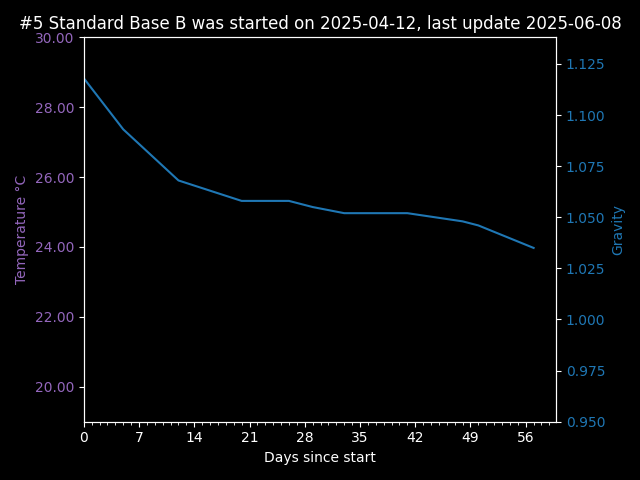
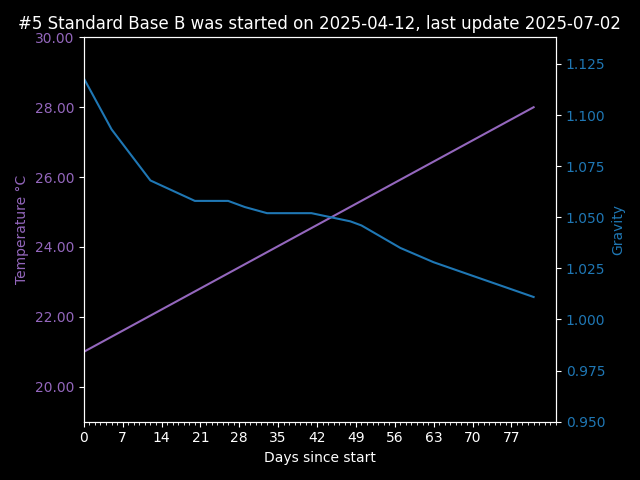
2025-07-05 whole lotta mead making happened

diff --git a/Recipe List/5_Standard_Base_A.md b/Recipe List/5_Standard_Base_A.md
@@ -29,6 +29,7 @@ Required Nitrogen Load: 403.19
 ### Yeast
 
 - [Wyeast: 1056 American Ale](https://wyeastlab.com/product/american-ale/)
+- Restarted with [Lalvin QA23]
 
 Yeast Food
 
@@ -47,33 +48,39 @@ Yeast Food
     - Actual: 1.120
 - Final Gravity
     - Expected: 1.020
-    - Actual:
+    - Actual:1.012
 - ABV
     - Expected: 11.0
 
+## Flavourings Added to separate batches:
+
+- <a href="Recipe%20List/5_1_Standard_Base_With_Raspberry.md"> 5.1 Standard Base With Raspberry</a>
+- <a href="Recipe%20List/5_2_Standard_Base_With_Lemon_Lavendar.md"> 5.2 Standard Base With Lemon Lavendar</a>
+- <a href="Recipe%20List/5_5_Standard_Base_Tails_with_Lemon.md"> 5.5 Standard Base Tails with Lemon</a>
+
 <h2>Fermentation Data</h2>
 
-| Date       | Temperature °C | Gravity | PH | Notes                                                          |
-|------------|----------------|---------|----|----------------------------------------------------------------|
-| 2025-04-12 | 21.0           | 1.120   |    | 09:45 Agitated airation                                        |
-| 2025-04-13 |                |         |    | 10:30 Airation                                                 |
-| 2025-04-13 |                |         |    | 17:30 Airation + Added Fermaid                                 |
-| 2025-04-16 |                | 1.102   |    | 19:50 Airation                                                 |
-| 2025-04-17 |                | 1.096   |    | 18:00  Airation + Added Fermaid                                |
-| 2025-04-24 |                | 1.072   |    |                                                                |
-| 2025-05-02 |                | 1.058   |    |                                                                |
-| 2025-05-08 |                | 1.058   |    |                                                                |
-| 2025-05-11 |                | 1.058   |    | Fermentation possibly stuck, mixed the lees back into the mead |
-| 2025-05-15 |                | 1.055   |    | started?just really slow?                                      |
-| 2025-05-23 |                | 1.053   |    |                                                                |
-| 2025-05-24 |                |         |    | Pretty sure it had stopped, added Lalvin QA23                  |
-| 2025-05-30 |                | 1.050   |    |                                                                |
-| 2025-06-01 |                | 1.048   |    |                                                                |
-| 2025-06-08 |                | 1.037   |    |                                                                |
-|            |                |         |    |                                                                |
-|            |                |         |    |                                                                |
-|            |                |         |    |                                                                |
-|            |                |         |    |                                                                |
+| Date       | Temperature °C | Gravity | PH | Notes                                                                |
+|------------|----------------|---------|----|----------------------------------------------------------------------|
+| 2025-04-12 | 21.0           | 1.120   |    | 09:45 Agitated airation                                              |
+| 2025-04-13 |                |         |    | 10:30 Airation                                                       |
+| 2025-04-13 |                |         |    | 17:30 Airation + Added Fermaid                                       |
+| 2025-04-16 |                | 1.102   |    | 19:50 Airation                                                       |
+| 2025-04-17 |                | 1.096   |    | 18:00  Airation + Added Fermaid                                      |
+| 2025-04-24 |                | 1.072   |    |                                                                      |
+| 2025-05-02 |                | 1.058   |    |                                                                      |
+| 2025-05-08 |                | 1.058   |    |                                                                      |
+| 2025-05-11 |                | 1.058   |    | Fermentation possibly stuck, mixed the lees back into the mead       |
+| 2025-05-15 |                | 1.055   |    | started?just really slow?                                            |
+| 2025-05-23 |                | 1.053   |    |                                                                      |
+| 2025-05-24 |                |         |    | Pretty sure it had stopped, added Lalvin QA23                        |
+| 2025-05-30 |                | 1.050   |    |                                                                      |
+| 2025-06-01 |                | 1.048   |    |                                                                      |
+| 2025-06-08 |                | 1.037   |    |                                                                      |
+| 2025-06-14 |                | 1.027   |    |                                                                      |
+| 2025-07-02 | 28.0           | 1.012   |    | (1.011 grav 22c corrected)  tastes like a classic sweet mead already |
+|            |                |         |    |                                                                      |
+|            |                |         |    |                                                                      |
 
 Notes:
 End of the bucket honey from 2023 at the top so a lot of it was crystalized

diff --git a/Recipe List/5_Standard_Base_B.md b/Recipe List/5_Standard_Base_B.md
@@ -29,6 +29,8 @@ Required Nitrogen Load: 403.19
 ### Yeast
 
 - [Wyeast: 1056 American Ale](https://wyeastlab.com/product/american-ale/)
+-
+    - Restarted with [Lalvin QA23]
 
 Yeast Food
 
@@ -47,33 +49,39 @@ Yeast Food
     - Actual: 1.118
 - Final Gravity
     - Expected: 1.020
-    - Actual:
+    - Actual:1.011
 - ABV
     - Expected: 11.0
 
+## Flavourings Added to separate batches:
+
+- <a href="Recipe%20List/5_3_Standard_Base_Plain.md"> 5.3 Standard Base Plain</a><br>
+- <a href="Recipe%20List/5_4_Standard_Base_With_Cucumber.md"> 5.4 Standard Base With Cucumber</a><br>
+- <a href="Recipe%20List/5_5_Standard_Base_Tails_with_Lemon.md"> 5.5 Standard Base Tails with Lemon</a>
+
 <h2>Fermentation Data</h2>
 
-| Date       | Temperature °C | Gravity | PH | Notes                                                          |
-|------------|----------------|---------|----|----------------------------------------------------------------|
-| 2025-04-12 | 21.0           | 1.118   |    | 9:45am, agitated airation                                      |
-| 2025-04-13 |                |         |    | 10:30 Airation                                                 |
-| 2025-04-13 |                |         |    | 17:30 Airation + Added Fermaid                                 |
-| 2025-04-16 |                | 1.098   |    | 19:50 Airation                                                 |
-| 2025-04-17 |                | 1.093   |    | 18:00 Airation + Added Fermaid                                 |
-| 2025-04-24 |                | 1.068   |    |                                                                |
-| 2025-05-02 |                | 1.058   |    |                                                                |
-| 2025-05-08 |                | 1.058   |    |                                                                |
-| 2025-05-11 |                | 1.055   |    | Fermentation possibly stuck, mixed the lees back into the mead |
-| 2025-05-15 |                | 1.052   |    | started?just really slow?                                      |
-| 2025-05-23 |                | 1.052   |    |                                                                |
-| 2025-05-24 |                |         |    | Pretty sure it had stopped, added Lalvin QA23                  |
-| 2025-05-30 |                | 1.048   |    |                                                                |
-| 2025-06-01 |                | 1.046   |    |                                                                |
-| 2025-06-08 |                | 1.035   |    |                                                                |
-|            |                |         |    |                                                                |
-|            |                |         |    |                                                                |
-|            |                |         |    |                                                                |
-|            |                |         |    |                                                                |
+| Date       | Temperature °C | Gravity | PH | Notes                                                               |
+|------------|----------------|---------|----|---------------------------------------------------------------------|
+| 2025-04-12 | 21.0           | 1.118   |    | 9:45am, agitated airation                                           |
+| 2025-04-13 |                |         |    | 10:30 Airation                                                      |
+| 2025-04-13 |                |         |    | 17:30 Airation + Added Fermaid                                      |
+| 2025-04-16 |                | 1.098   |    | 19:50 Airation                                                      |
+| 2025-04-17 |                | 1.093   |    | 18:00 Airation + Added Fermaid                                      |
+| 2025-04-24 |                | 1.068   |    |                                                                     |
+| 2025-05-02 |                | 1.058   |    |                                                                     |
+| 2025-05-08 |                | 1.058   |    |                                                                     |
+| 2025-05-11 |                | 1.055   |    | Fermentation possibly stuck, mixed the lees back into the mead      |
+| 2025-05-15 |                | 1.052   |    | started?just really slow?                                           |
+| 2025-05-23 |                | 1.052   |    |                                                                     |
+| 2025-05-24 |                |         |    | Pretty sure it had stopped, added Lalvin QA23                       |
+| 2025-05-30 |                | 1.048   |    |                                                                     |
+| 2025-06-01 |                | 1.046   |    |                                                                     |
+| 2025-06-08 |                | 1.035   |    |                                                                     |
+| 2025-06-14 |                | 1.028   |    |                                                                     |
+| 2025-07-02 | 28.0           | 1.011   |    | (1.010 grav 22c corrected) tastes like a classic sweet mead already |
+|            |                |         |    |                                                                     |
+|            |                |         |    |                                                                     |
 
 Notes:
 End of the bucket honey from 2023. 

diff --git a/readme.md b/readme.md
@@ -14,7 +14,7 @@ This is not a guide, no really it's essentially a checklist of stuff we might or
 
 [//]: # (- [4_Orange_and_Chilli.md]&#40;Recipe%20List/4_Orange_and_Chilli.md&#41;)
 
-We've been running two meads at a time, each row is started on the same day; generally they use a similar amount of
+We've been running multiple meads at a time, each row is started on the same day; generally they use a similar amount of
 honey and the same yeast, with the differing factor being the taste additions
 
 
@@ -43,17 +43,24 @@ honey and the same yeast, with the differing factor being the taste additions
         <td><img title="5_Standard_Base_A.png" src="Recipe%20List/5_Standard_Base_A.png"></td>
         <td><img title="5_Standard_Base_B.png" src="Recipe%20List/5_Standard_Base_B.png"></td>
     </tr>
-
+    <tr>
+        <td colspan="2">
+        5A and 5B became:<br>
+        <a href="Recipe%20List/5_1_Standard_Base_With_Raspberry.md"> 5.1 Standard Base With Raspberry</a><br>
+        <a href="Recipe%20List/5_2_Standard_Base_With_Lemon_Lavendar.md"> 5.2 Standard Base With Lemon and Lavendar</a><br>
+        <a href="Recipe%20List/5_3_Standard_Base_Plain.md"> 5.3 Standard Base Plain</a><br>
+        <a href="Recipe%20List/5_4_Standard_Base_With_Cucumber.md"> 5.4 Standard Base With Cucumber</a><br>
+        <a href="Recipe%20List/5_5_Standard_Base_Tails_with_Lemon.md"> 5.5 Standard Base Tails with Lemon</a>
+        </td>
+    </tr>
 </table>
-
 
 ## Yeasts I'd like to use
 
 - [12% Gervin Yeast](https://brew2bottle.co.uk/collections/wine-yeast/products/gervin-yeasts?variant=15349934620787)
 - [11% Wyeast sweet mead ](https://www.themaltmiller.co.uk/product/wyeast-4184-sweet-mead/?v=79cba1185463)
 - [5-10%er WLP90 San-diego](https://www.themaltmiller.co.uk/product/wlp090-san-diego-super-yeast/?v=79cba1185463)
--
-    - [wpl90 calculator](https://yeastman.com/calculator)
+- [wpl90 calculator](https://yeastman.com/calculator)
 - [17% dry mead Wyeast ](https://www.themaltmiller.co.uk/product/wyeast-4021-dry-white-sparkling/?v=79cba1185463)
 
 [more yeast ideas](https://new.reddit.com/r/mead/comments/96o93j/what_yeast_is_best_to_use/)

diff --git a/Recipe List/5_4_Standard_Base_With_Cucumber.md b/Recipe List/5_4_Standard_Base_With_Cucumber.md
@@ -1,0 +1,43 @@
+# Standard Base With Cucumber
+
+## plan:
+
+- 1.5 Litres of Cucumber
+    - reduced to 300ml over a low heat
+
+Building on-top of <a href="Recipe%20List/5_Standard_Base_B.md"> 5 Standard Base B.md</a>
+
+
+## What happened:
+
+- 5 Cucumbers chopped then blended until smooth,
+- reduced for 2-3 hours at medium - high heat with intermittent stirring (we got bored with stirring)
+
+Chopped 5  cucumbers when blended until smooth; added that to a pan and had it on a medium high heat for 2-3 hours;
+at one point we decided to use a stick blender to make it smoother, 
+this worked but wouldn't have been neeeded if we had a better blender. 
+
+Gave up on reducing
+
+After waiting for the cucumber to cool we squeezed it through cheese cloth to extract most of the liquid, around 1.2 litres
+
+We added 1 litre of this cucumber (juice?)  to the demijon then topped up with <a href="Recipe%20List/5_Standard_Base_B.md"> 5 Standard Base B.md</a>
+
+
+
+
+
+
+
+
+
+
+
+
+
+
+## Notes for next time
+Reducing cucumber might be possible, should try blending better and then slowly reducing over a much longer timeframe 
+at lower temperatures; 5-6 hours at 70-80c might work
+
+or don't bother, just blend it really well and squeze the juice out (or buy a juicer) 

diff --git a/Recipe List/5_1_Standard_Base_With_Raspberry.md b/Recipe List/5_1_Standard_Base_With_Raspberry.md
@@ -1,0 +1,22 @@
+#Standard Base With raspberry
+
+## plan:
+
+We had planned to do Rhubarb:
+
+- Rhubarb 800g? 400g? 250g?
+    - Grated / diced
+    - in water, bring to a boil then let cool
+
+but as we couldn't find any when we went do get our additions we swapped over to raspberries; it's still red, close
+enough
+
+## What happened:
+
+Adde 500 grams of frozen raspberries to a food processor with around 100ml of water; blended until smooth 
+(not unlike icecream) then added the around 700ml of raspberry juice to the demijon.
+
+note: not sure how this will do may have to go through and mix it a few times to make sure we're not 
+getting a layer of raspberry pulp at the top
+
+Building ontop of <a href="Recipe%20List/5_Standard_Base_A.md"> 5 Standard Base A.md</a>

diff --git a/Recipe List/5_5_Standard_Base_Tails_with_Lemon.md b/Recipe List/5_5_Standard_Base_Tails_with_Lemon.md
@@ -1,0 +1,10 @@
+Unplanned: 
+We had slightly more mead than expected (or we forgot how much we planned for at the beginning)
+
+So off the cuff plan, put both the tails from <a href="Recipe%20List/5_Standard_Base_A.md"> 5 Standard Base A.md</a> 
+and <a href="Recipe%20List/5_Standard_Base_B.md"> 5 Standard Base B.md</a> into one demijon
+After a little debate we decided to add the leftover lemon (less the zest) 
+so chopped it and added it to a brew bag with two 16mm stainless steel ball bearings
+
+Note for later: adding lemon to the bag then stuffing the bag into the demijon is a massive faf, do the other method
+where you put the brewbag over the top of the demijon then add the contents through the neck; less faff that way.

diff --git a/Recipe List/5_2_Standard_Base_With_Lemon_Lavendar.md b/Recipe List/5_2_Standard_Base_With_Lemon_Lavendar.md
@@ -1,0 +1,14 @@
+# Standard Base With Lemon Lavendar
+
+## plan:
+- Zest of 1 lemon
+- 3 tsp of Lavendar
+  - drop it all in a little boiling water?
+
+## What happened:
+Zested a Lemon, added to two tbsp of labendar in a brew bag; placed into the demijon. 
+We also included a weight in the form of a 16mm Stainless Steel ball bearing; 
+not quite heavy enough, use two next time.
+
+
+Building ontop of <a href="Recipe%20List/5_Standard_Base_A.md"> 5 Standard Base A.md</a>

diff --git a/Recipe List/5_3_Standard_Base_Plain.md b/Recipe List/5_3_Standard_Base_Plain.md
@@ -1,0 +1,8 @@
+# Standard Base Original
+
+## plan:
+- don't do anthing, just give it time
+## What happened:
+- didn't do anything
+
+Building on-top of <a href="Recipe%20List/5_Standard_Base_B.md"> 5 Standard Base B.md</a>

diff --git a/Recipe List/2_Elderflower.md b/Recipe List/2_Elderflower.md
@@ -33,8 +33,9 @@ Yeast Food:
     - Actual:1060 @ 24.75c
 - Final Gravity
     - Expected:1020
-    - Actual:
+    - Actual:1.010
 - Estimated Alcohol Content
+  - 6.56 - 7.22
 
 <h2>Fermentation Data</h2>
 

diff --git a/Recipe List/3_Mojito.md b/Recipe List/3_Mojito.md
@@ -1,5 +1,8 @@
 <h1> #3 Mojito </h1>
 
+<h1> TURN INTO BIN JUICE </h1>
+Don't try it again 
+
 Started on: 2024-06-23 | Running Concurrently with: [#4 Orange and Chilli](4_Orange_and_Chilli.md)
 
 
